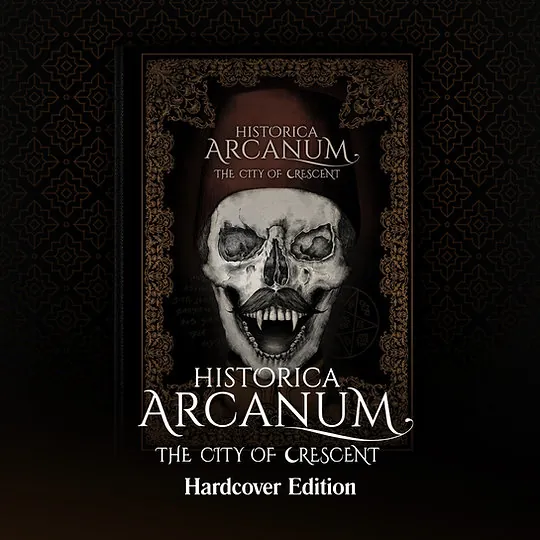
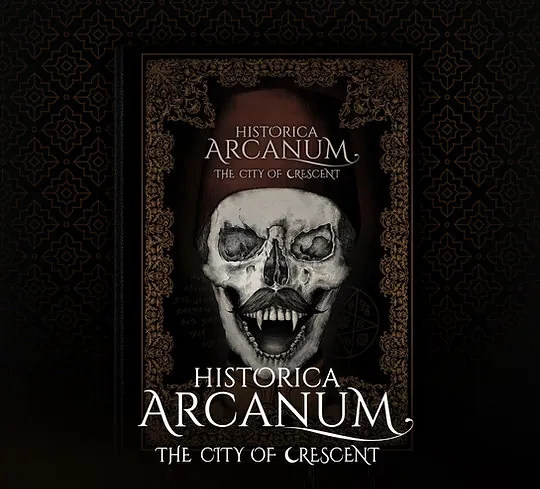
Games page: release showcases, art strip, cleaner book photos
Projects become alternating full-width showcases with stats and a
campaign button, City of Crescent art drifts in a strip under the hero,
the headline rises in word by word, and the hardcover labels are cropped
off the book photos.

Claude-Session: https://claude.ai/code/session_01L5Vo2gefKC6JyGjqg4sY4W

Changed region(s): [[0.237, 0.092, 0.7704, 0.9509], [0.8, 0.092, 0.8889, 0.4294], [0.0889, 0.0613, 0.1778, 0.4294]]

diff --git a/src/styles/site.css b/src/styles/site.css
@@ -103,27 +103,8 @@ section.block > div { min-width: 0; }
 .src { margin-top: 10px; font-size: .8rem; color: var(--muted); }
 @media (max-width: 560px) { .stats { grid-template-columns: 1fr; } }
 
-.studio { display: grid; gap: 14px; }
-.studio + .studio { margin-top: 36px; }
-.studio header { display: grid; gap: 4px; }
-.studio header h3 { font-size: 1.6rem; }
-.studio header span { font-size: .92rem; color: var(--muted); }
-.projects { display: grid; grid-template-columns: repeat(auto-fill, minmax(280px, 1fr)); gap: 14px; }
-.proj { background: var(--surface); border: 1px solid var(--rule); border-radius: 8px; overflow: hidden; display: grid; grid-template-rows: auto 1fr; }
-.art { position: relative; aspect-ratio: 16 / 10; max-width: 100%; overflow: hidden; background: var(--a1); }
-.art img { width: 100%; height: 100%; object-fit: cover; transition: transform 6s ease-out; }
-.proj:hover .art img { transform: scale(1.06); }
-.art.ph::before { content: ""; position: absolute; inset: 0; background: radial-gradient(circle at 75% 30%, var(--a2), transparent 45%), linear-gradient(180deg, transparent 40%, rgba(0,0,0,.55)); animation: drift 14s ease-in-out infinite alternate; }
 @keyframes drift { from { transform: scale(1); } to { transform: scale(1.12) translateY(-3%); } }
-.art figcaption { position: absolute; left: 10px; bottom: 8px; font: .68rem/1.3 var(--mono); color: #F1E6D4; text-shadow: 0 1px 2px rgba(0,0,0,.7); }
-.proj .body { padding: 14px 16px 16px; display: grid; gap: 8px; align-content: start; }
-.proj h4 { font: 800 1.12rem/1.25 var(--body); }
-.proj h4 a { color: var(--fg); text-decoration: none; }
-.proj h4 a:hover { text-decoration: underline; }
 .meta { font-size: .85rem; color: var(--muted); font-variant-numeric: tabular-nums; }
-.fund { height: 8px; border-radius: 99px; background: var(--wash); overflow: hidden; }
-.fund i { display: block; height: 100%; width: var(--w); background: var(--accent); border-radius: inherit; animation: fill 1.4s cubic-bezier(.2,.7,.2,1) both; }
-@keyframes fill { from { width: 0; } }
 .role { font-size: .92rem; }
 .role b { color: var(--accent); font-weight: 600; }
 .badge { justify-self: start; font: 600 .7rem/1 var(--mono); text-transform: uppercase; letter-spacing: .08em; padding: 6px 8px; border-radius: 4px; border: 1px solid var(--accent); color: var(--accent); }
@@ -147,14 +128,7 @@ footer { padding-block: 36px 48px; border-top: 1px solid var(--rule); color: var
 .hero-art::after { content: ""; position: absolute; inset: 0; z-index: -1; background: linear-gradient(180deg, rgba(21,17,14,.35) 0%, rgba(21,17,14,.7) 55%, var(--bg) 100%); }
 .hero-art .lede { color: #E6D8C2; }
 
-/* Product photos sit on their own black ground */
-.art.photo { background: #0B0A0A; aspect-ratio: 4 / 3; }
-.art.photo img { object-fit: contain; padding: 6px; }
 
-/* Gallery */
-.gallery-intro { margin-bottom: 14px; color: var(--muted); max-width: 62ch; }
-.gallery { display: grid; grid-template-columns: repeat(5, minmax(0, 1fr)); gap: 10px; }
-@media (max-width: 900px) { .gallery { grid-template-columns: repeat(2, minmax(0, 1fr)); } }
 .shot { position: relative; display: block; width: 100%; padding: 0; border: 1px solid var(--rule); border-radius: 6px; overflow: hidden; background: var(--surface); cursor: zoom-in; }
 .shot img { width: 100%; height: auto; aspect-ratio: 4096 / 2160; object-fit: cover; transition: transform .5s ease; }
 .shot:hover img, .shot:focus-visible img { transform: scale(1.05); }
@@ -165,3 +139,44 @@ footer { padding-block: 36px 48px; border-top: 1px solid var(--rule); color: var
 .lightbox img { max-width: 100%; max-height: 84vh; border-radius: 6px; margin-inline: auto; }
 .lightbox p { text-align: center; color: #F1E6D4; margin-top: 8px; font-family: var(--body); }
 .lightbox .close { position: absolute; top: -14px; right: -6px; width: 36px; height: 36px; border-radius: 50%; border: 0; background: var(--accent); color: var(--on-accent); font-size: 1.4rem; line-height: 1; cursor: pointer; }
+
+/* Hero headline: words rise in one after another */
+.reveal span { display: inline-block; animation: rise .8s cubic-bezier(.2,.7,.2,1) both; animation-delay: calc(var(--i) * 70ms + 150ms); }
+@keyframes rise { from { opacity: 0; transform: translateY(.4em); filter: blur(4px); } }
+
+/* Art strip that drifts sideways */
+.marquee { overflow: hidden; margin-top: 8px; mask-image: linear-gradient(90deg, transparent, #000 6%, #000 94%, transparent); }
+.marquee-track { display: flex; gap: 10px; width: max-content; animation: slide 70s linear infinite; }
+.marquee:hover .marquee-track, .marquee:focus-within .marquee-track { animation-play-state: paused; }
+.marquee li { width: clamp(220px, 28vw, 340px); flex: none; }
+@keyframes slide { to { transform: translateX(calc(-50% - 5px)); } }
+.marquee-note { margin-bottom: 8px; }
+
+/* Studio bands with one showcase per release, alternating sides */
+.studio-band { border-top: 1px solid var(--rule); padding-block: 40px 8px; }
+.studio-head { display: grid; gap: 6px; margin-bottom: 28px; }
+.studio-head h2 { font-size: clamp(2rem, 5vw, 3.2rem); }
+.studio-head p { color: var(--muted); max-width: 60ch; }
+.show { display: grid; grid-template-columns: minmax(0, 1.1fr) minmax(0, 1fr); gap: clamp(20px, 4vw, 48px); align-items: center; padding-block: 28px; }
+.show:nth-of-type(even) .show-media { order: 2; }
+.show-media { position: relative; margin: 0; aspect-ratio: 4 / 3; max-width: 100%; border-radius: 10px; overflow: hidden; background: var(--a1); border: 1px solid var(--rule); }
+.show-media img { width: 100%; height: 100%; object-fit: cover; transition: transform 6s ease-out; }
+.show:hover .show-media img { transform: scale(1.04); }
+.show-media.photo { background: #0B0A0A; }
+.show-media.photo img { object-fit: contain; padding: 4%; }
+.show-media.ph::before { content: ""; position: absolute; inset: 0; background: radial-gradient(circle at 70% 30%, var(--a2), transparent 50%), linear-gradient(180deg, transparent 40%, rgba(0,0,0,.55)); animation: drift 14s ease-in-out infinite alternate; }
+.show-media figcaption { position: absolute; left: 12px; bottom: 10px; font: .7rem/1.3 var(--mono); color: #F1E6D4; }
+@keyframes drift { from { transform: scale(1); } to { transform: scale(1.12) translateY(-3%); } }
+.show-text { display: grid; gap: 12px; align-content: center; min-width: 0; }
+.show-text h4 { font-family: var(--display); font-weight: var(--dweight); font-size: clamp(1.6rem, 3.4vw, 2.4rem); line-height: 1.08; }
+.show-blurb { font-size: 1.1rem; color: var(--muted); max-width: 46ch; }
+.show-stats { display: flex; flex-wrap: wrap; gap: 8px 28px; margin: 4px 0 0; }
+.show-stats dt { font: 600 .7rem/1 var(--mono); text-transform: uppercase; letter-spacing: .08em; color: var(--muted); }
+.show-stats dd { margin: 4px 0 0; font: 800 1.5rem/1 var(--body); color: var(--accent); font-variant-numeric: tabular-nums; }
+.cta { justify-self: start; display: inline-flex; gap: 8px; align-items: center; margin-top: 4px; padding: 12px 18px; border-radius: 4px; background: var(--accent); color: var(--on-accent); font: 600 .78rem/1 var(--mono); text-transform: uppercase; letter-spacing: .1em; text-decoration: none; transition: transform .2s; }
+.cta:hover { transform: translateX(3px); }
+@media (max-width: 760px) { .show { grid-template-columns: 1fr; } .show:nth-of-type(even) .show-media { order: 0; } }
+
+/* Partners */
+.partners { display: flex; flex-wrap: wrap; gap: 10px 28px; align-items: baseline; }
+.partners li { font-family: var(--display); font-size: clamp(1.2rem, 2.6vw, 1.7rem); color: var(--muted); }
